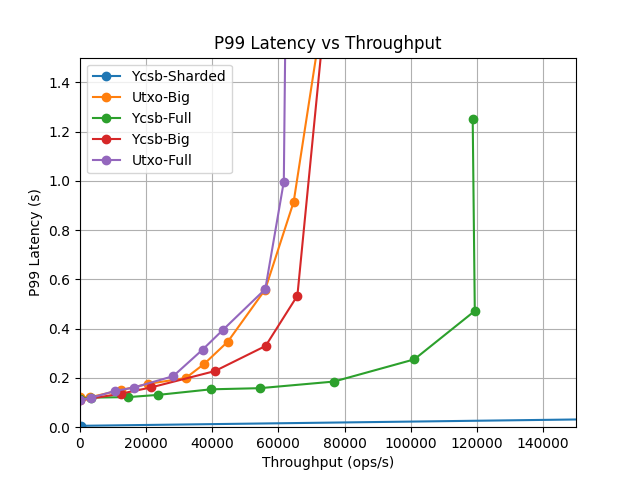
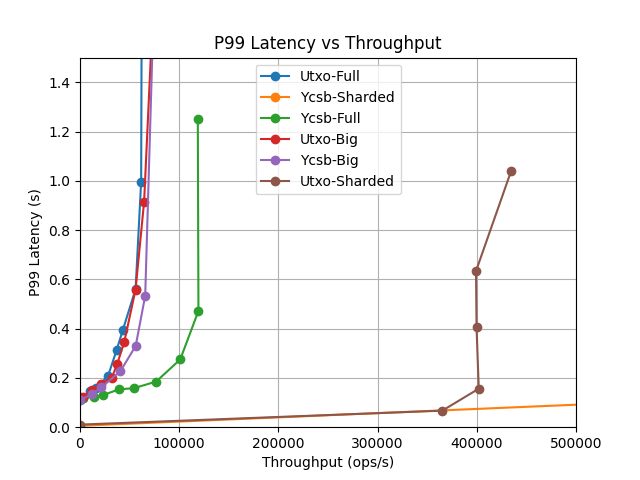
feat(data): utxo sharded tput latency

diff --git a/control/src/bin/tput-latency.rs b/control/src/bin/tput-latency.rs
@@ -109,24 +109,42 @@ async fn main() -> anyhow::Result<()> {
             }
         }
         (big_schema::App::Utxo, Storage::Full) => {
+            // for &num_concurrent in match NETWORK {
+            //     Network::Lan => &[0, 10, 50, 100, 200, 300, 500, 1000, 2000, 4000][..],
+            //     Network::Wan => &[
+            //         0, 4000, 6000, 8000, 10_000, 13_000, 16_000, 20_000, 30_000, 40_000,
+            //     ],
+            // } {
+            //     println!("running UTXO Full with num_concurrent = {}", num_concurrent);
+            //     metrics = run(&cluster, 33, 1, num_concurrent).await?;
+            //     writeln!(
+            //         &mut data,
+            //         "{t},{:?},{},{},\"concurrent = {}\"",
+            //         Setting::Full,
+            //         num_nodes(33),
+            //         s(metrics),
+            //         num_concurrent
+            //     )?;
+            // }
             for &num_concurrent in match NETWORK {
-                Network::Lan => &[0, 10, 50, 100, 200, 300, 500, 1000, 2000, 4000][..],
-                Network::Wan => &[
-                    0, 4000, 6000, 8000, 10_000, 13_000, 16_000, 20_000, 30_000, 40_000,
-                ],
+                Network::Lan => &[0, 1000, 2000, 4000, 6000, 8000, 10_000, 15_000][..],
+                // Network::Wan => &[0, 100_000, 200_000, 300_000],
+                Network::Wan => &[30_000, 60_000],
             } {
-                println!("running UTXO Full with num_concurrent = {}", num_concurrent);
-                metrics = run(&cluster, 33, 1, num_concurrent).await?;
+                println!(
+                    "running UTXO Full Sharded with num_concurrent = {}",
+                    num_concurrent
+                );
+                metrics = run(&cluster, 3, 10, num_concurrent).await?;
                 writeln!(
                     &mut data,
                     "{t},{:?},{},{},\"concurrent = {}\"",
-                    Setting::Full,
-                    num_nodes(33),
+                    Setting::Sharded,
+                    num_nodes(3) * 10,
                     s(metrics),
                     num_concurrent
                 )?;
             }
-            // TODO sharded UTXO
         }
         (big_schema::App::Utxo, Storage::Big) => {
             for &num_concurrent in match NETWORK {
@@ -150,10 +168,7 @@ async fn main() -> anyhow::Result<()> {
     }
 
     create_dir_all("data").await?;
-    let mut data_file = File::create(format!(
-        "data/tput-latency-{NETWORK:?}-{APP:?}-{STORAGE:?}.csv"
-    ))
-    .await?;
+    let mut data_file = File::create(format!("data/tput-latency-scratch.csv")).await?;
     data_file.write_all(data.as_bytes()).await?;
     Ok(())
 }
@@ -200,7 +215,7 @@ async fn run_workload(
     if num_shards > 1 {
         assert!(matches!(STORAGE, Storage::Full));
     }
-    assert_eq!(STRIPE_INTERVAL, Duration::ZERO);
+    assert!(STRIPE_INTERVAL >= Duration::from_hours(1));
 
     let control_client = Client::new();
     println!("wait for servers to boot");

diff --git a/data/tput-latency.py b/data/tput-latency.py
@@ -15,7 +15,7 @@ def plot(df, postfix, ylim=None):
             label=f"{app}-{setting}",
         )
     ax.legend()
-    ax.set_xlim(0, 150_000)
+    ax.set_xlim(0, 500_000)
     # ax.set_ylim(0, None)
     ax.set_ylim(0, ylim)
     ax.set_xlabel("Throughput (ops/s)")
@@ -25,7 +25,7 @@ def plot(df, postfix, ylim=None):
     fig.savefig(f"data/tput-latency-{postfix}.png")
 
 
-df = pl.read_csv("data/tput-latency-*.csv")  # .filter(pl.col("_ignore") != True)
+df = pl.read_csv("data/tput-latency.csv")  # .filter(pl.col("_ignore") != True)
 print(df)
 plot(df.filter((pl.col("network") == "Lan")), "lan", ylim=1.5)
 plot(df.filter((pl.col("network") == "Wan")), "wan", ylim=15)
